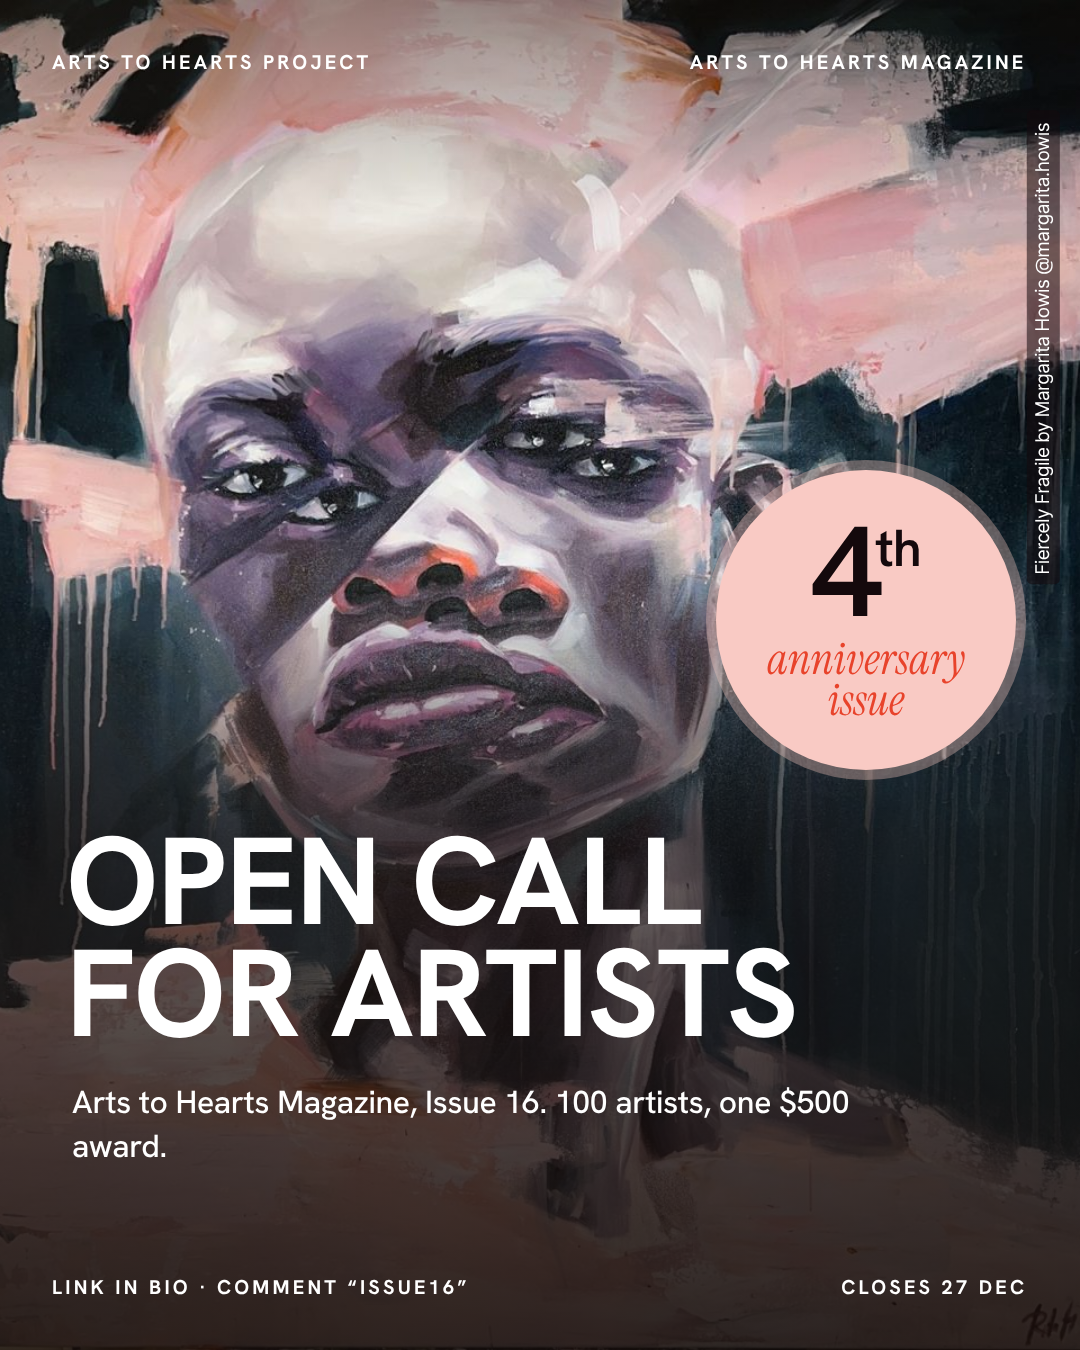
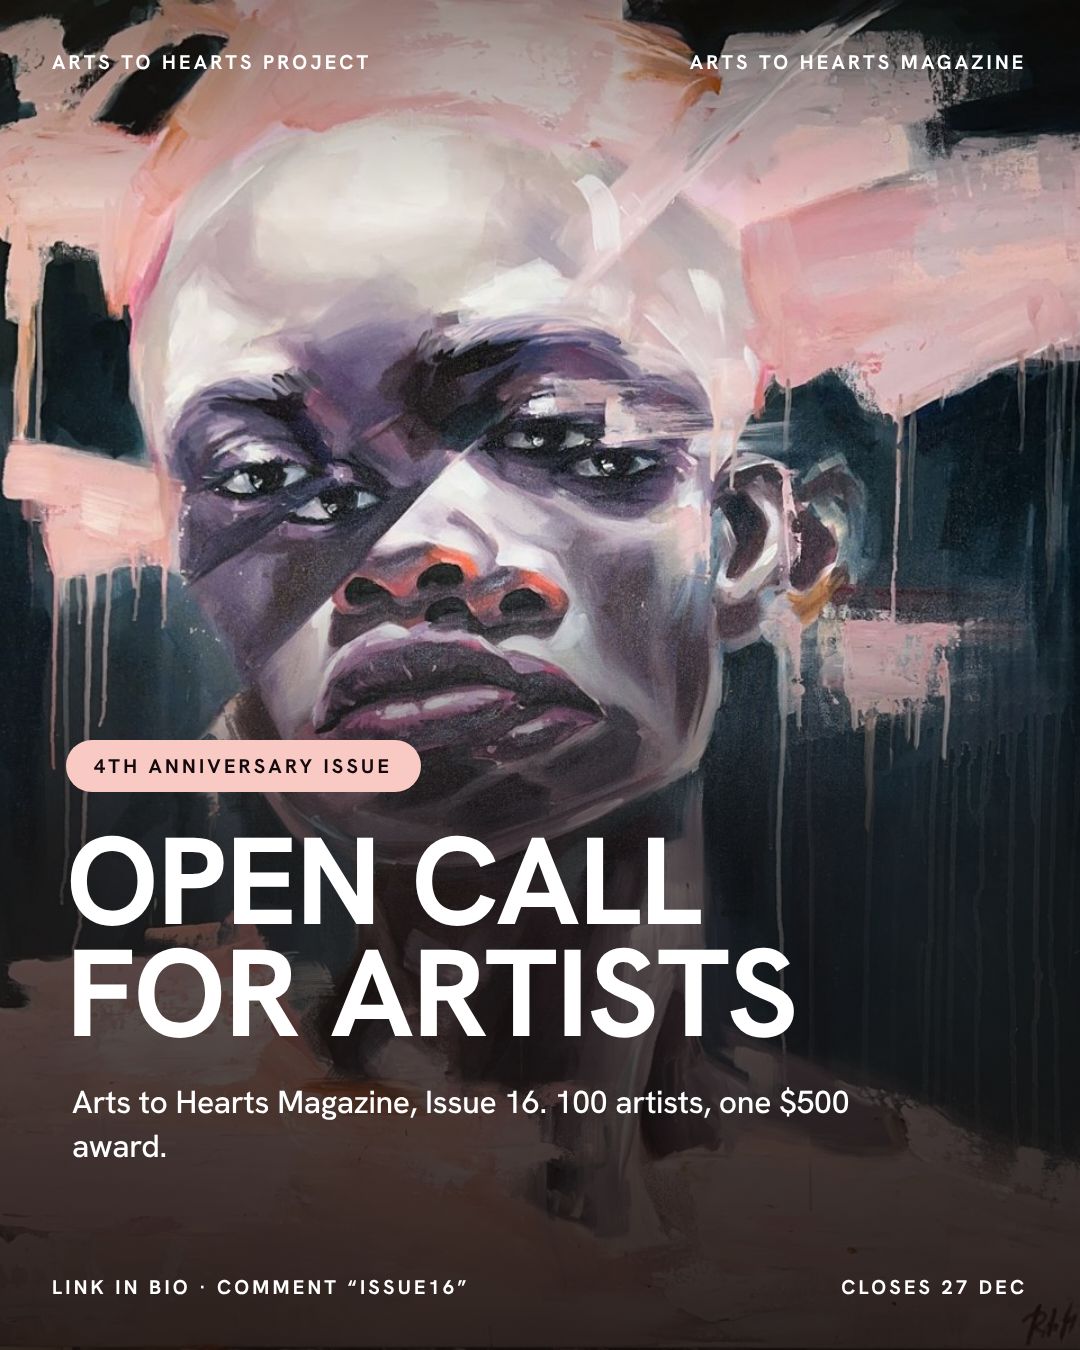
Issue 16 · Gallery cover: no circle, small 4th anniversary issue pill above the headline, no credit
Claude-Session: https://claude.ai/code/session_01Bc4gkdxg6i3YRuybqzVB3k

Changed region(s): [[0.6417, 0.0933, 1.0, 0.5911], [0.0611, 0.5289, 0.3972, 0.5911]]

diff --git a/site/post-studio/index.html b/site/post-studio/index.html
@@ -1279,12 +1279,10 @@ function launch(){
     const big = sp > 0 ? lab.slice(0, sp) : lab, rest = sp > 0 ? lab.slice(sp + 1) : '';
     const bm = big.match(/^(\d+)(st|nd|rd|th)$/i);
     S.push({bg:INK, html:`
-    <div data-slot="imgCover" class="a img" style="inset:0;background-image:url(${state.images.imgCover || ''});background-position:center 18%"></div>
+    <div data-slot="imgCover" data-nolabel class="a img" style="inset:0;background-image:url(${state.images.imgCover || ''});background-position:center 18%"></div>
     <div class="a" style="inset:0;background:linear-gradient(180deg,rgba(20,14,12,.38) 0%,rgba(20,14,12,0) 16%,rgba(20,14,12,0) 42%,rgba(20,14,12,.62) 62%,rgba(20,14,12,.88) 100%)"></div>
     ${corners(WHITE, WHITE, state.series)}
-    <div class="a" style="right:64px;top:470px;width:300px;height:300px;border-radius:50%;background:${Tn};color:${INK};display:flex;flex-direction:column;align-items:center;justify-content:center;text-align:center;box-shadow:0 0 0 10px ${rgba(Tn, .35)}">
-      <p style="font-size:128px;font-weight:600;letter-spacing:-.06em;line-height:.85">${bm ? `${bm[1]}<span style="font-size:52px;letter-spacing:-.02em;vertical-align:top;position:relative;top:8px">${bm[2]}</span>` : esc(big)}</p>
-      <p class="scr" style="font-size:44px;line-height:.95;margin-top:12px;color:${C}">${esc(rest).replace(/ (\S+)$/, '<br>$1')}</p></div>
+    <div class="a" style="left:66px;top:740px;display:flex"><span class="cn" style="display:inline-flex;align-items:center;height:52px;padding:0 28px;background:${Tn};color:${INK};border-radius:999px;font-size:20px">${esc(lab)}</span></div>
     <p class="a" style="left:66px;right:60px;top:826px;font-size:124px;font-weight:700;letter-spacing:-.01em;line-height:.9;text-transform:uppercase;color:${WHITE}">${esc(/^call for artists$/i.test(state.headline || '') || !state.headline ? 'Open call for artists' : state.headline).replace(/^(\S+ \S+) /, '$1<br>')}</p>
     <p class="a sub" style="left:72px;right:200px;top:1080px;color:${WHITE}">${esc(state.coverLine)}</p>`});
   } else
